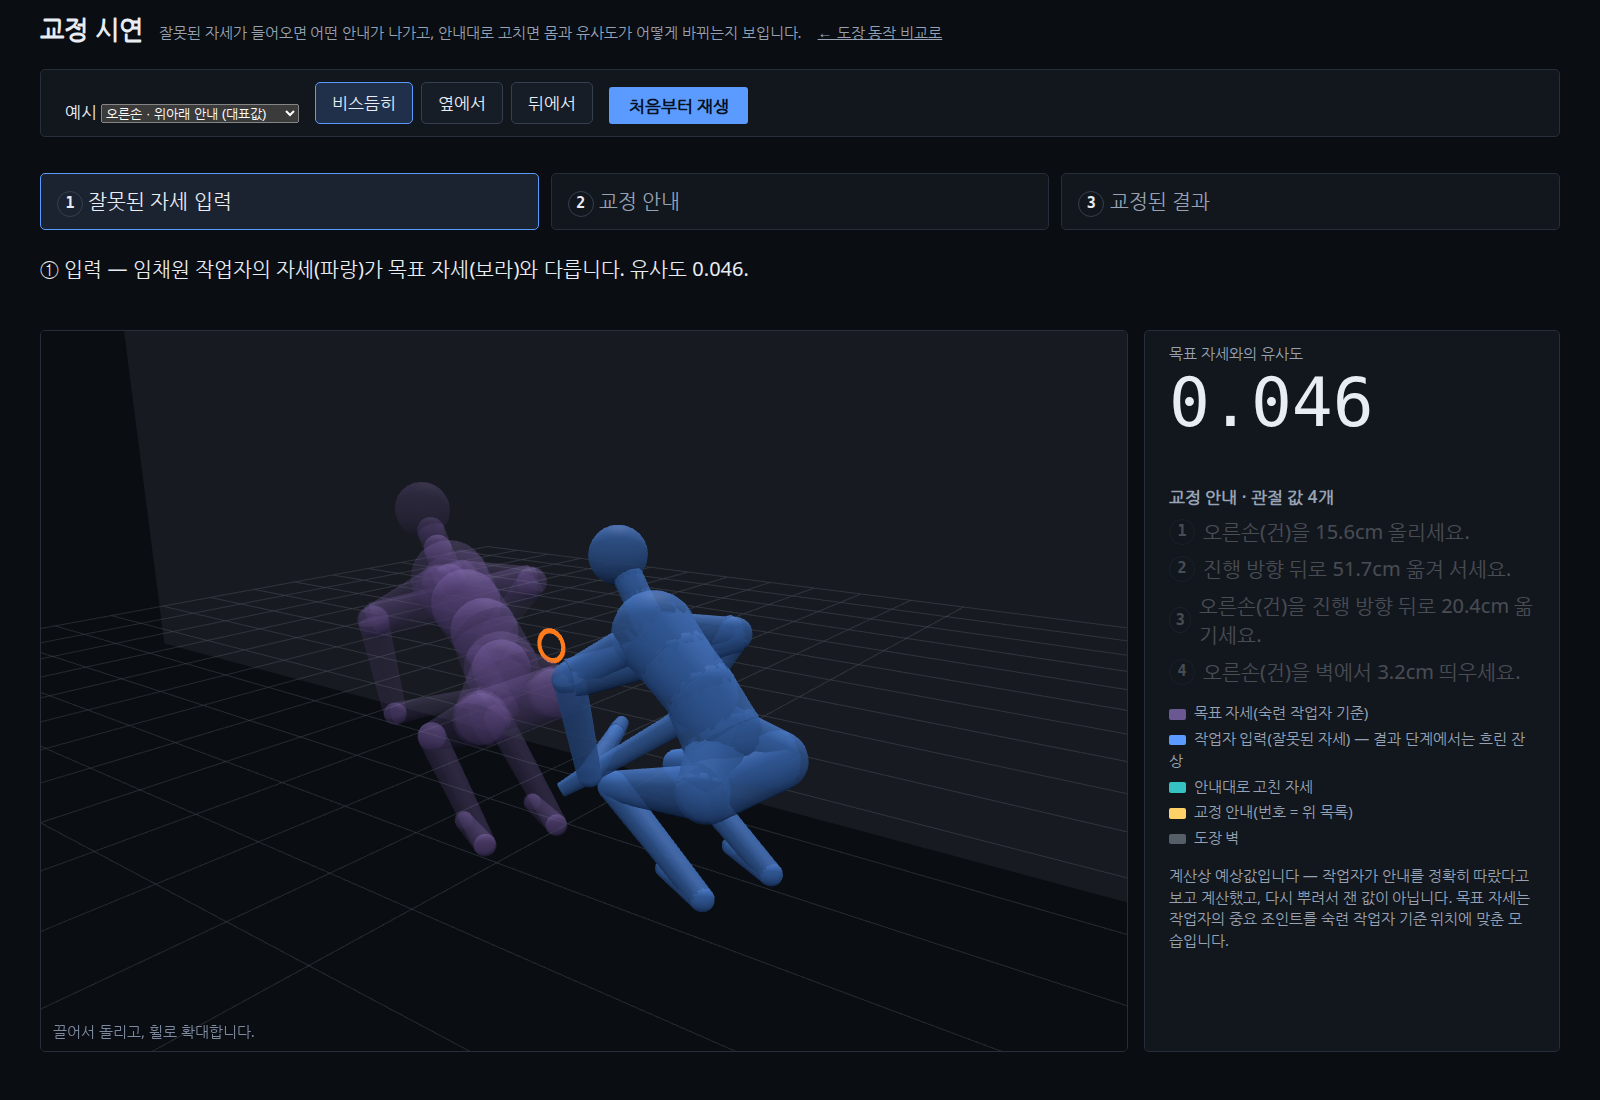
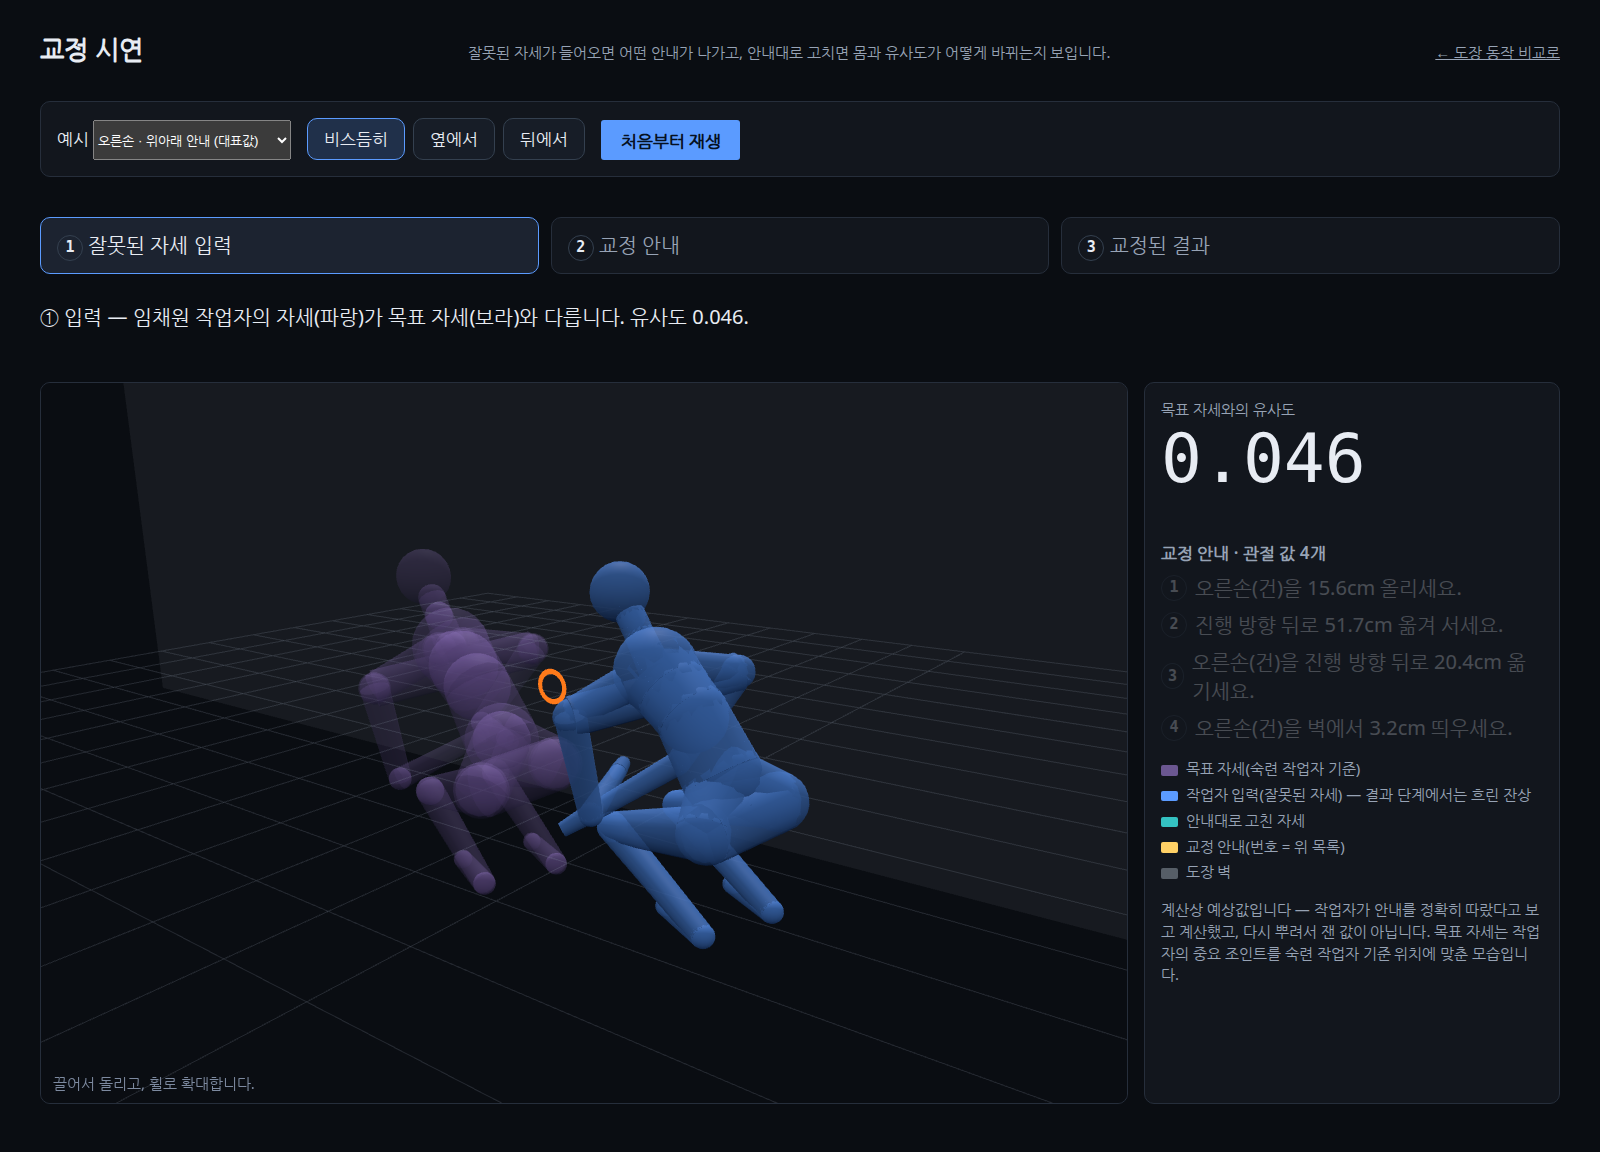
docs: 골격 수정 후 몸 제약 정확도를 다시 재고 시연 자료를 다시 만든다
몸통 비례 보정 수정 후 같은 전수로 다시 재면 알고리즘 안내 전부 83.29%(제자리 82.64%), 관절 값
6개 이하 91.52%(92.99%)로 이전과 0.03%p 이내다. 시연 캡처·영상을 새 골격으로 다시 만들고, 바뀐
비교 화면에 맞춰 KPI 시험 방법의 시연 절차를 고친다.

Claude-Session: https://claude.ai/code/session_01TMJ6pSH6EERv16xMfVGiqU

diff --git a/docs/year2/KPI_시험방법.md b/docs/year2/KPI_시험방법.md
@@ -123,19 +123,20 @@ PYTHONPATH=trainer/scripts:. python3 -m uvicorn trainer.pose_lab.app:create_app 
 ### 6.1 도장 동작 비교 화면 — 안내 문구가 나오고 예상 결과가 오르는 것을 확인
 
 1. 작업자·레벨·도장 구간을 고르고 **비교**를 누른다. 기준 작업자(전형기)의 같은 유형 동작이 자동으로 잡힌다.
-2. 왼쪽 위 **유사도**(교정 전, S0)와 그 아래 **자세 개선 안내** 문장을 확인한다.
-3. **안내를 적용했을 때의 예상 결과**에서 "유사도 0.524 → 이 안내대로 고치면 0.774"처럼 안내 1건을 따랐을 때의 상승과,
-   그 안내 문장("오른손(건)을 16.9cm 올리세요.")을 확인한다. "자세히"를 펴면 발부된 안내를 모두 따랐을 때의 값(KPI 정의)도 보인다.
-4. 3D 뷰에서 **안내 적용 후(예상)**를 켜면 안내대로 옮긴 위치가 청록 끊은 선으로 겹쳐 보인다.
-5. **교정 시연으로 보기**를 누르면 같은 쌍이 6.2의 시연 화면으로 열린다(알고리즘 안내 전부를 따른 결과를 보인다).
+2. 왼쪽 위 **유사도**(교정 전, S0)와 그 아래 **자세 개선 안내** 문장을 확인한다. 안내의 **방향 보기**를 누르면 3D에서
+   그 안내의 화살표가 강조된다.
+3. **첫 번째 안내 적용 시**에서 "유사도 0.524 → 예상 0.774"처럼 작업자에게 전달되는 안내 1건을 따랐을 때의 상승을 확인한다.
+   "자세히"를 펴면 발부된 안내를 모두 따랐을 때의 값(KPI 정의)도 보인다.
+4. **개선 동작 시연**을 누르면 같은 쌍이 6.2의 시연 화면으로 열린다(알고리즘 안내 전부를 따른 결과를 보인다).
+5. 몸 자세가 해부학적으로 맞지 않으면(머리가 몸통 정면에서 80° 넘게 돌아간 경우) 그 몸을 흐리게 그리고 3D 바로 아래에
+   "추정 자세" 문장을 띄운다.
 
 ![비교 결과](img/main_1_비교결과.png)
 ![예상 결과](img/main_2_예상결과.png)
-![3D 안내 적용 후](img/main_3_3D_안내적용후.png)
 
 ### 6.2 교정 시연 화면 — 잘못된 자세 → 교정 안내 → 교정된 결과
 
-주소: `http://<호스트>:8130/demo.html` (도장 동작 비교 화면의 **교정 시연으로 보기**로 열면 같은 쌍이 열린다)
+주소: `http://<호스트>:8130/demo.html` (도장 동작 비교 화면의 **개선 동작 시연**으로 열면 같은 쌍이 열린다)
 
 화면에는 연차를 적지 않는다. 기본으로 보이는 교정은 **교정 알고리즘이 낸 안내 전부(관절 값 4개 이하)** — KPI 정확도의
 정의와 같다.

diff --git a/docs/measurements/2026-10-01-body-constrained-improvement-result.md b/docs/measurements/2026-10-01-body-constrained-improvement-result.md
@@ -57,3 +57,17 @@
 - 공식 수치를 점 독립(85.9%)으로 둘지 몸 제약 값으로 바꿀지는 사용자가 정한다. 바꾼다면 두 가정 중 낮은 쪽(82.6%)을 쓰는 것이 보수적이다.
 - 한계: 몸은 패스의 대표 순간 하나다(채점은 패스 평균). 장비 이동을 조인트 이동으로 대신하고 회전은 무시한다. 하체 자세는 근사다.
   숙련자 대 숙련자, 계산상 예상값.
+
+
+## 6. 재측정 (2026-10-02) — 몸통 비례 보정 수정 후
+
+몸통 비례 보정이 두 척추 마디에 다른 배율을 곱해 몸통 방향을 바꾸던 결함을 고친 뒤(cc94ccc), 같은 정의·같은 쌍으로 두 가정을
+다시 쟀다. 원자료 `/output/body_constrained_v2/`, `/output/body_constrained_stay_v2/`(각 64,098줄, 오류 0), CSV는 그 아래 `csv/`.
+
+| split 정확도 | 점 독립 | 몸 제약 따라감 (v1 → v2) | 몸 제약 제자리 (v1 → v2) |
+|---|---|---|---|
+| 알고리즘 안내 전부 | 85.9% | 83.30 → **83.29%** | 82.65 → **82.64%** |
+| 전달 1건 | 32.1% | 10.14 → 10.11% | 32.11 → 32.10% |
+
+차이는 0.03%p 이내다. 손이 닿는지(팔 길이)는 어깨 위치로 정해지는데, 몸통 보정은 몸통 방향만 바꾸고 앵커(머리·손)에 맞춘 배치는
+그대로라 어깨 위치가 거의 움직이지 않았다. 손·머리 부족 비율도 같다(손 7.8%, 머리 13.8%). §1–5의 결론은 바뀌지 않는다.

diff --git a/docs/year3/2026-10-01-body-constrained-result.md b/docs/year3/2026-10-01-body-constrained-result.md
@@ -35,3 +35,17 @@ CSV(UTF-8 BOM): `/data/ship-paint-ai/output/year3/body_constrained/csv/`, 민감
 - 계산상 예상값이며 숙련자 대 숙련자다.
 - 몸은 동작의 대표 순간을 기준으로 했다.
 - 공식 수치를 기존 산출(97.6%)로 둘지 신체 제약 반영 값으로 바꿀지는 결정이 필요하다.
+
+
+## 5. 재측정 (2026-10-02) — 골격 표시 수정 후
+
+골격의 몸통 비례 계산을 고친 뒤 같은 조건으로 다시 쟀다. CSV: `/data/ship-paint-ai/output/year3/body_constrained_v2/csv/`,
+민감도 분석 `/data/ship-paint-ai/output/year3/body_constrained_stay_v2/csv/`.
+
+| 관절 값 6개 이하 교정 | split 정확도 (이전 → 재측정) |
+|---|---|
+| 신체 제약 반영 | 91.54% → **91.52%** |
+| 민감도 분석(안내가 없는 손은 작업 위치 유지) | 93.00% → **92.99%** |
+
+차이는 0.02%p 이내이고 3차년도 목표(90% 이상) 판정은 그대로다. 작업자별(신체 제약): 김경호 90.6 · 손영석 92.1 · 임채원 93.1 ·
+전형기 87.6 · 정희록 92.7 · 최연진 92.1.
